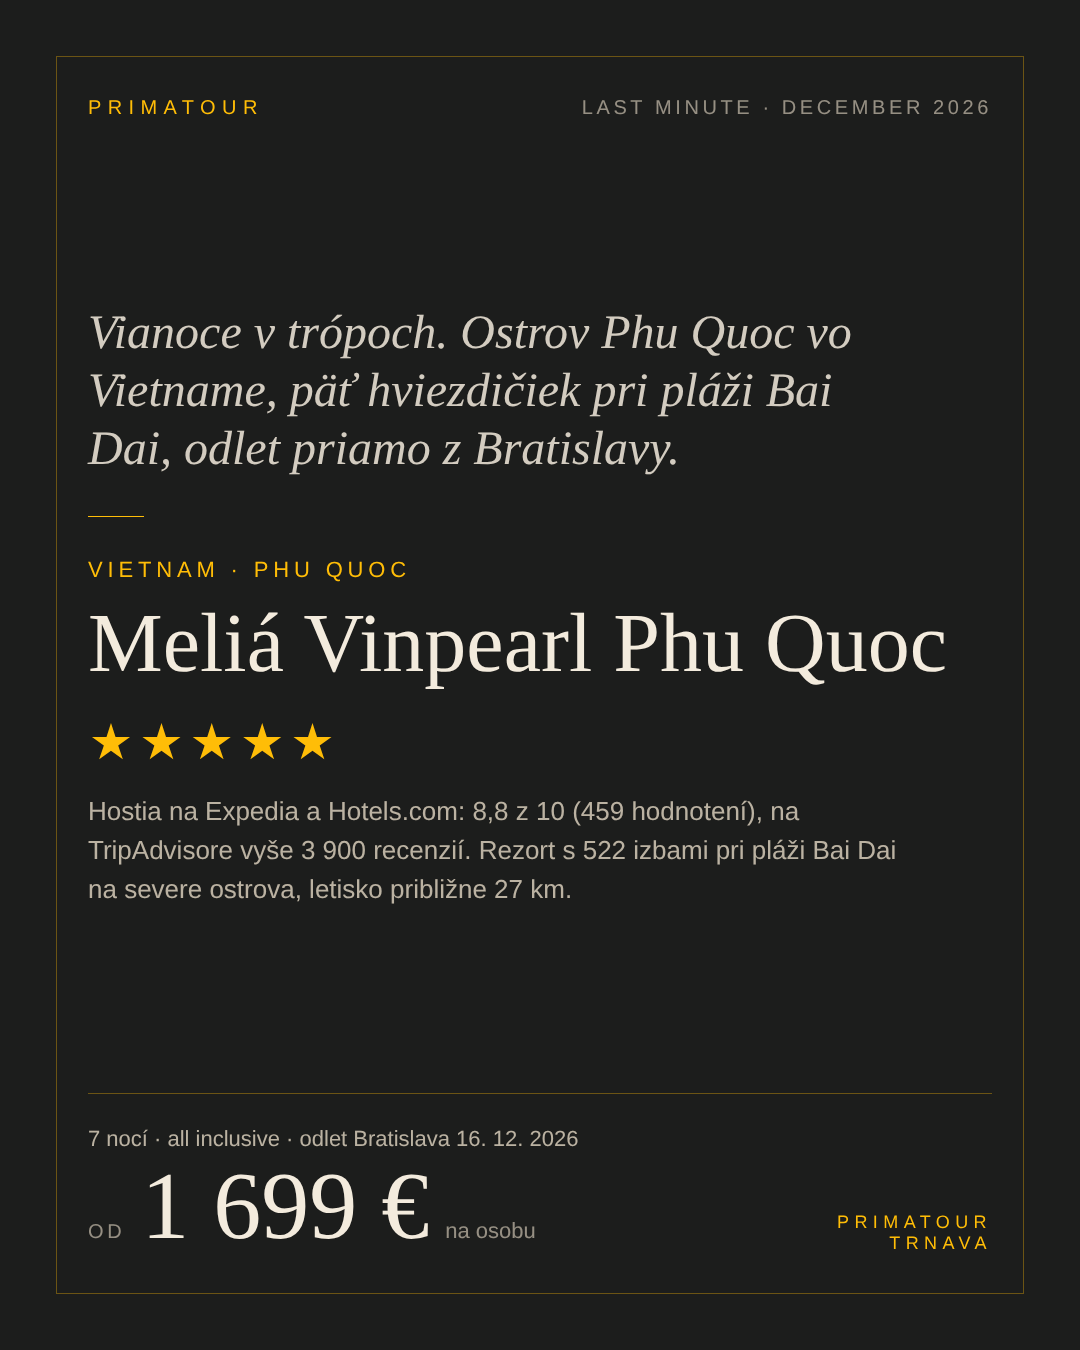
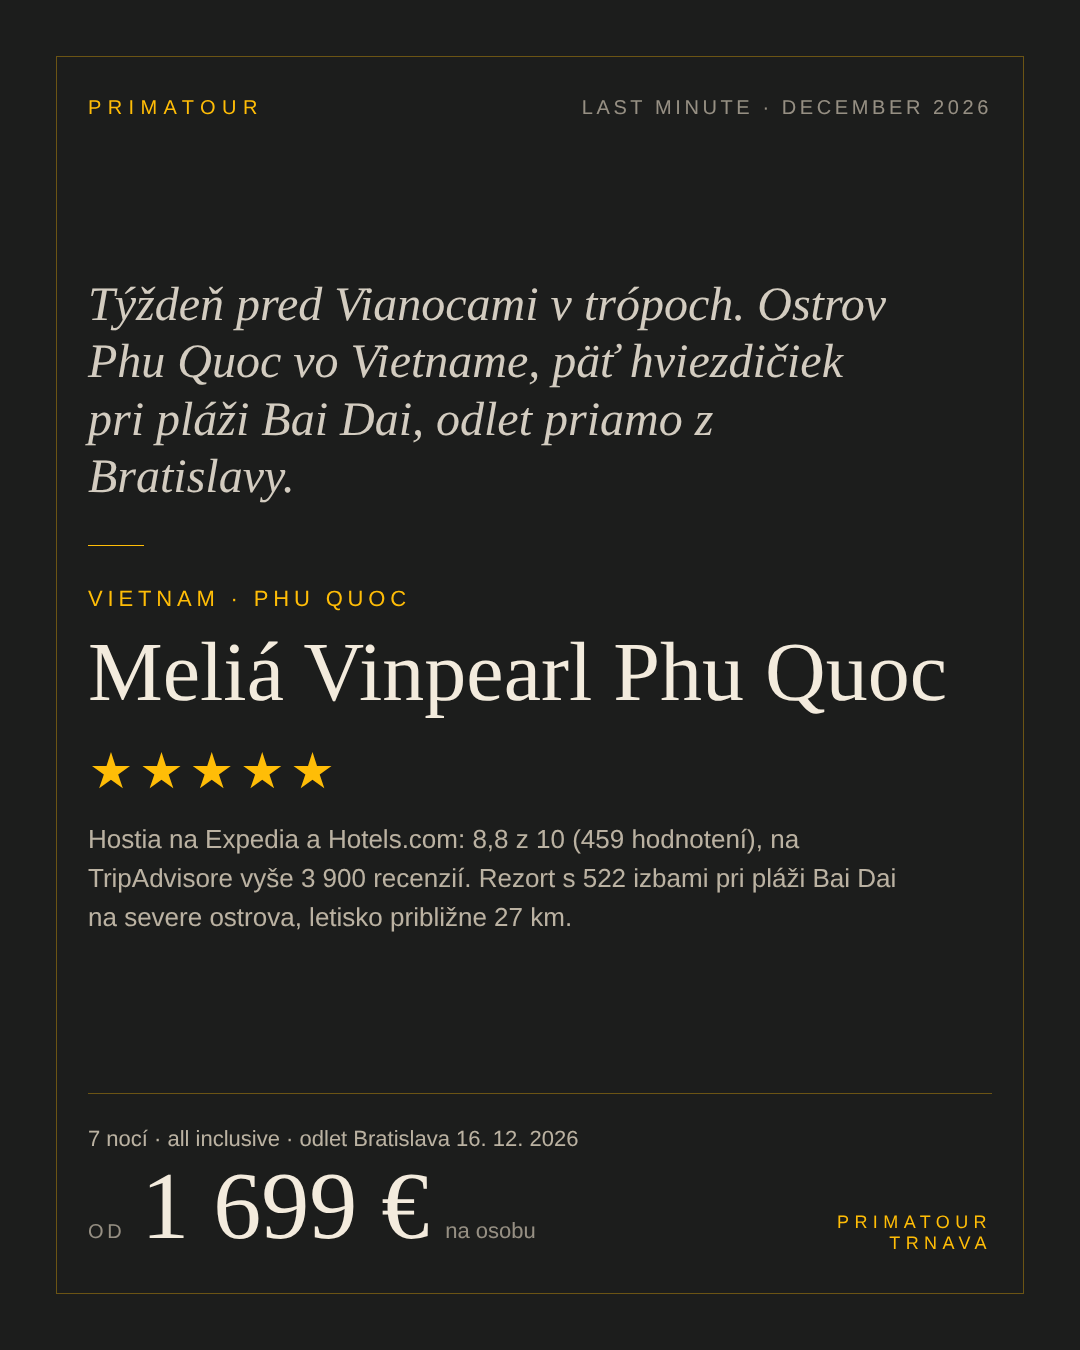
Beh 2026-11-16 poobede: Meliá Vinpearl Phu Quoc (Vietnam) do GHL (FB + IG, in_review) – fotky zo servera 404, len vizuál
Claude-Session: https://claude.ai/code/session_01DGmxL94owz6kS6GvMQhpRe

Changed region(s): [[0.0611, 0.4044, 0.8861, 0.6844], [0.0611, 0.2178, 0.825, 0.3733]]

diff --git a/2026/11/melia-vinpearl-phu-quoc-ghl.md b/2026/11/melia-vinpearl-phu-quoc-ghl.md
@@ -1,0 +1,38 @@
+# Denný výber – 16. 11. 2026, poobedný beh (15:20)
+
+- Newslettre od 16. 11. 8:20: 12 súborov (CK FISCHER 9:03 – TOP prehľad bez hotelov; SATUR 9:27 – Black Friday kupóny pre Gold/Platinum klientov, agentský postup; KARTAGO 9:33 – LM Egypt BTS 4. 12., 15 hotelov 484–804 €; Sun & Fun 10:10 – TIP Palemon Resort & Spa Side BTS 16.–26. 6. 2027 od 947 €; DERTOUR SK 10:16 – súťaž pre predajcov; Orex Travel 11:44 – White Weeks Anex, v tele mailu len staré podmienky záloh z r. 2020, bez ponuky; Sun & Fun 11:58 – FM Turecko BTS 26. 6. 2027, 8 hotelov 702–1 014 €; CK FISCHER 12:27 a 12:29 – LM Maledivy z Viedne 28. 11., 8 hotelov 2 664–4 429 €; DERTOUR CZ 13:33 – regionálne letiská 2027 (CZ); DERTOUR CZ 14:32 – Nev-Dama ski opening Mölltal (CZ); CK FISCHER 15:19 – LM Vietnam BTS 16. 12., Meliá Vinpearl Phu Quoc od 1 699 €)
+- Vybrané 1: Meliá Vinpearl Phu Quoc***** Phu Quoc, Vietnam (CK FISCHER / DERTOUR SK, newsletter 16. 11. 15:19), odlet Bratislava 16. 12. 2026, 7 nocí, all inclusive, od 1 699 € na osobu
+  - Overenie: Expedia + Hotels.com 8,8/10 zo 459 hodnotení (281× 10, 107× 8, 39× 6, 14× 4, 18× 2; čistota 7,4, poloha 8,8, personál 8,8, vybavenie 8,8); TripAdvisor 3 978–4 009 recenzií (celkové skóre sa z načítanej stránky nedalo spoľahlivo určiť – stránka ukazuje 4,9, meta popis „rated 4 of 5“ – v texte preto bez čísla z TripAdvisoru); HolidayCheck, Booking a Check24 nedali skóre → ODPORÚČAME (8,8/10) s poznámkou o upratovaní. 522 izieb, pláž Bai Dai (TripAdvisor: „private beach“; Hotels.com: Dai Beach 5 min pešo / 0,5 km), letisko Phu Quoc 16,9 mi ≈ 27 km (Hotels.com: cca 51 min autom). Opakované výhrady v recenziách: odľahlá poloha na severe ostrova, drahé taxi, upratovanie a pomalšia obsluha.
+  - Fotky: server ptserver vrátil „HTTP Error 404: Not Found“ (rovnako ako 13. 11. – vyhľadávanie primatour.sk zrejme nefunguje) – príspevok len s vizuálom 2026/11/melia-vinpearl-phu-quoc.png
+  - GHL (in_review, approver Martina, zverejnenie 18. 11. 2026 18:00 Bratislava = 17:00 UTC; 17. 11. je štátny sviatok): Facebook 6afb153831e913e9f364f3c6, Instagram 6afb1549a7e4acad42402000
+- Vyradené: KARTAGO LM Egypt BTS 4. 12. – Siva Golden Bay, Sentido Caribbean World, Bellagio, Prima Life, Amarina Abu Soma, Titanic Beach už boli; Mövenpick Soma Bay a Royal Star predtým s výhradou/nedávame; Titanic Pearl***** (676 €) – na HolidayCheck je to nový hotel Hwaidak Hotels s 1 hodnotením 4/6 (október 2026, stavebné práce), nie je to premenovaný Titanic Resort & Aqua Park – neoverené; Blue Lake, Elysees, Rewaya Inn, El Karma, Blend Club, Calimera Blend Paradise neoverené/rozporné. Sun & Fun Palemon Resort & Spa – rovnaký TIP už bol v októbri. Sun & Fun FM 26. 6. – Seher Sun Palace, Riolavitas už boli; Ramada Side, Club Nena predtým s výhradou; Catty Cats Garden, Villa Side, Seher Kumköy neoverené. Maledivy – odlet z Viedne, Embudu Village už bol. Ostatné: agentské/technické/CZ maily.
+- Kandidáti na karusel: Titanic Pearl (až bude mať hodnotenia), Palemon Resort & Spa Side (Sun & Fun BTS 16. 6. 2027, UAI od 947 € – už overený v októbri, vhodný do letného karuselu)
+
+## Text FB – Meliá Vinpearl Phu Quoc
+
+Týždeň pred Vianocami v trópoch. Vietnamský ostrov Phu Quoc, päť hviezdičiek s all inclusive a odlet priamo z Bratislavy, od 1 699 €.
+
+Meliá Vinpearl Phu Quoc, Vietnam.
+Hostia ho na Expedia a Hotels.com hodnotia 8,8 z 10 zo 459 hodnotení, na TripAdvisore má vyše 3 900 recenzií.
+Rezort s 522 izbami leží pri pláži Bai Dai na severe ostrova. Je to pokojná, odľahlejšia časť Phu Quocu – letisko je približne 27 km, autom okolo 50 minút, a do mesta sa chodí taxíkom. Komu vyhovuje mať všetko v rezorte, tomu to sadne; kto chce večer vyrážať do ulíc, nech počíta s cestovaním. V hodnoteniach je slabším bodom upratovanie (7,4 z 10), to treba povedať rovno.
+
+7 nocí · all inclusive · odlet Bratislava 16. 12. 2026 · od 1 699 € na osobu
+
+Ak vás to oslovilo, napíšte – pošleme detaily, overíme voľné miesta a typ izby.
+
+Primatour · www.primatour.sk · primatour@primatour.sk · +421 947 941 819
+
+## Text IG – Meliá Vinpearl Phu Quoc
+
+Týždeň pred Vianocami v trópoch, odlet priamo z Bratislavy.
+
+Meliá Vinpearl Phu Quoc, Vietnam.
+Expedia a Hotels.com: 8,8 z 10 zo 459 hodnotení, TripAdvisor vyše 3 900 recenzií. Rezort s 522 izbami pri pláži Bai Dai na pokojnom severe ostrova, letisko približne 27 km. Slabším bodom v hodnoteniach je upratovanie (7,4 z 10).
+
+7 nocí · all inclusive · odlet Bratislava 16. 12. 2026 · od 1 699 € na osobu
+
+Napíšte nám do správy, pošleme detaily a overíme voľné miesta.
+
+Primatour · www.primatour.sk · primatour@primatour.sk · +421 947 941 819
+
+#primatour #vietnam #phuquoc #exotika #lastminute #dovolenka #allinclusive #bratislava
